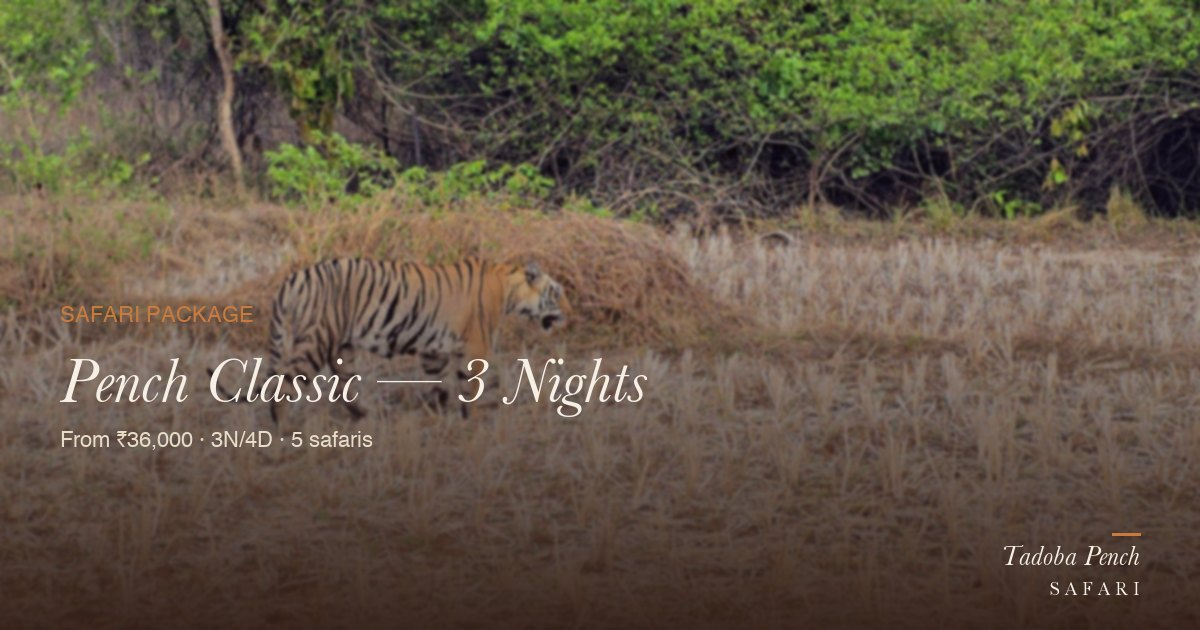
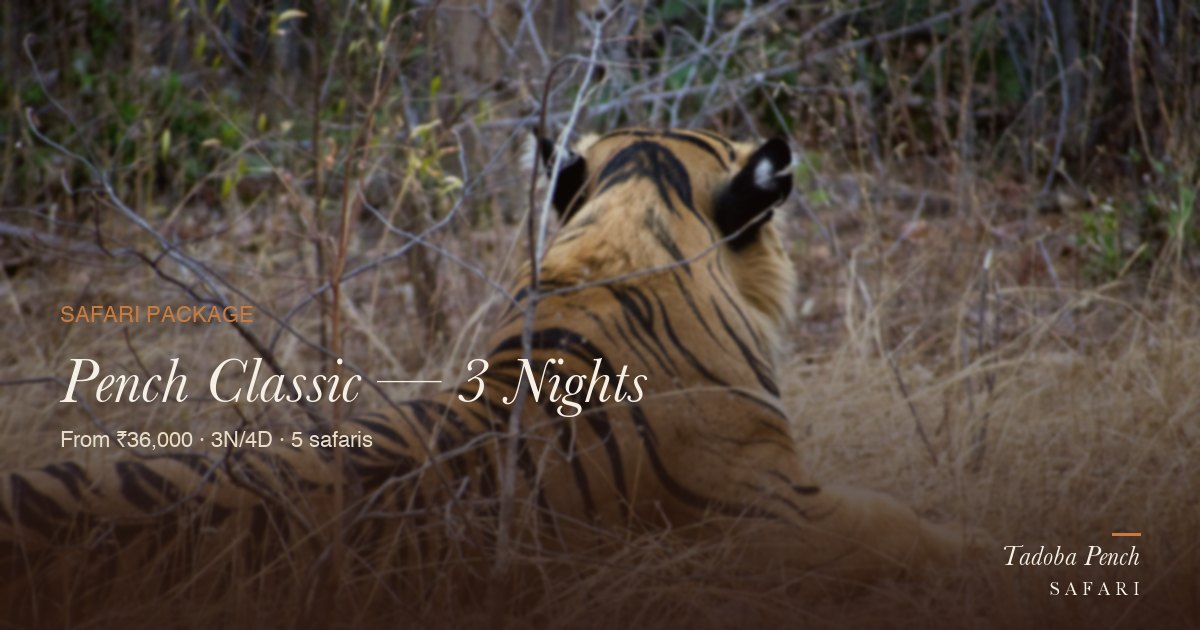
Upgrade hero + 6 package thumbnails to DSLR (Nikon NEF) wildlife shots
User added 9 new Nikon RAW files to 'my pic/'. Seven of them are
substantial upgrades over the phone shots they replace — sharper,
cleaner backgrounds, no jeep / tripod / people clutter, and a
photographer's eye on composition.

NEFs converted to JPEG via sips, then run through the same Pillow
pipeline as the phone photos (autocontrast, +8% contrast, +15%
saturation, unsharp mask, resize to 2400px, quality-88 progressive
JPEG with EXIF stripped).

Swaps:

  hero-tiger-tadoba       <- _DSC0128  tiger walking broadside on rocky clearing
  pkg-tadoba-classic      <- _DSC0135  tiger walking, alternate frame
  pkg-tadoba-pench-combo  <- _DSC0145  tiger lying in tall grass, head up
  pkg-photography-week    <- _DSC0091  chital with full antlers, eye contact
  pkg-pench-weekend       <- _DSC0084  gaur standing in dry forest
  pkg-pench-classic       <- _DSC0147  tiger in tall grass
  pkg-pench-family        <- _DSC0057  langur monkey in tree (Mowgli appeal)

Kept on phone shots (no DSLR replacement that fits):
  dest-tadoba, dest-pench (forest landscapes)
  pkg-pench-birding (bird on branch)

Also:
  - Updated the home page Image alt to match the new hero
    ('walking across a rocky clearing' instead of 'striding
    through golden grassland').
  - Regenerated 7 corresponding OG cards (/og/home.jpg and the
    6 affected /og/package-*.jpg) so social-share previews
    reflect the new heroes.

diff --git a/app/page.tsx b/app/page.tsx
@@ -94,7 +94,7 @@ export default function HomePage() {
       <section className="relative min-h-[92vh] flex items-center overflow-hidden grain">
         <Image
           src="/images/hero-tiger-tadoba.jpg"
-          alt="Bengal tiger striding through golden grassland at Tadoba Andhari Tiger Reserve"
+          alt="Bengal tiger walking across a rocky clearing at Tadoba Andhari Tiger Reserve"
           fill
           priority
           sizes="100vw"
